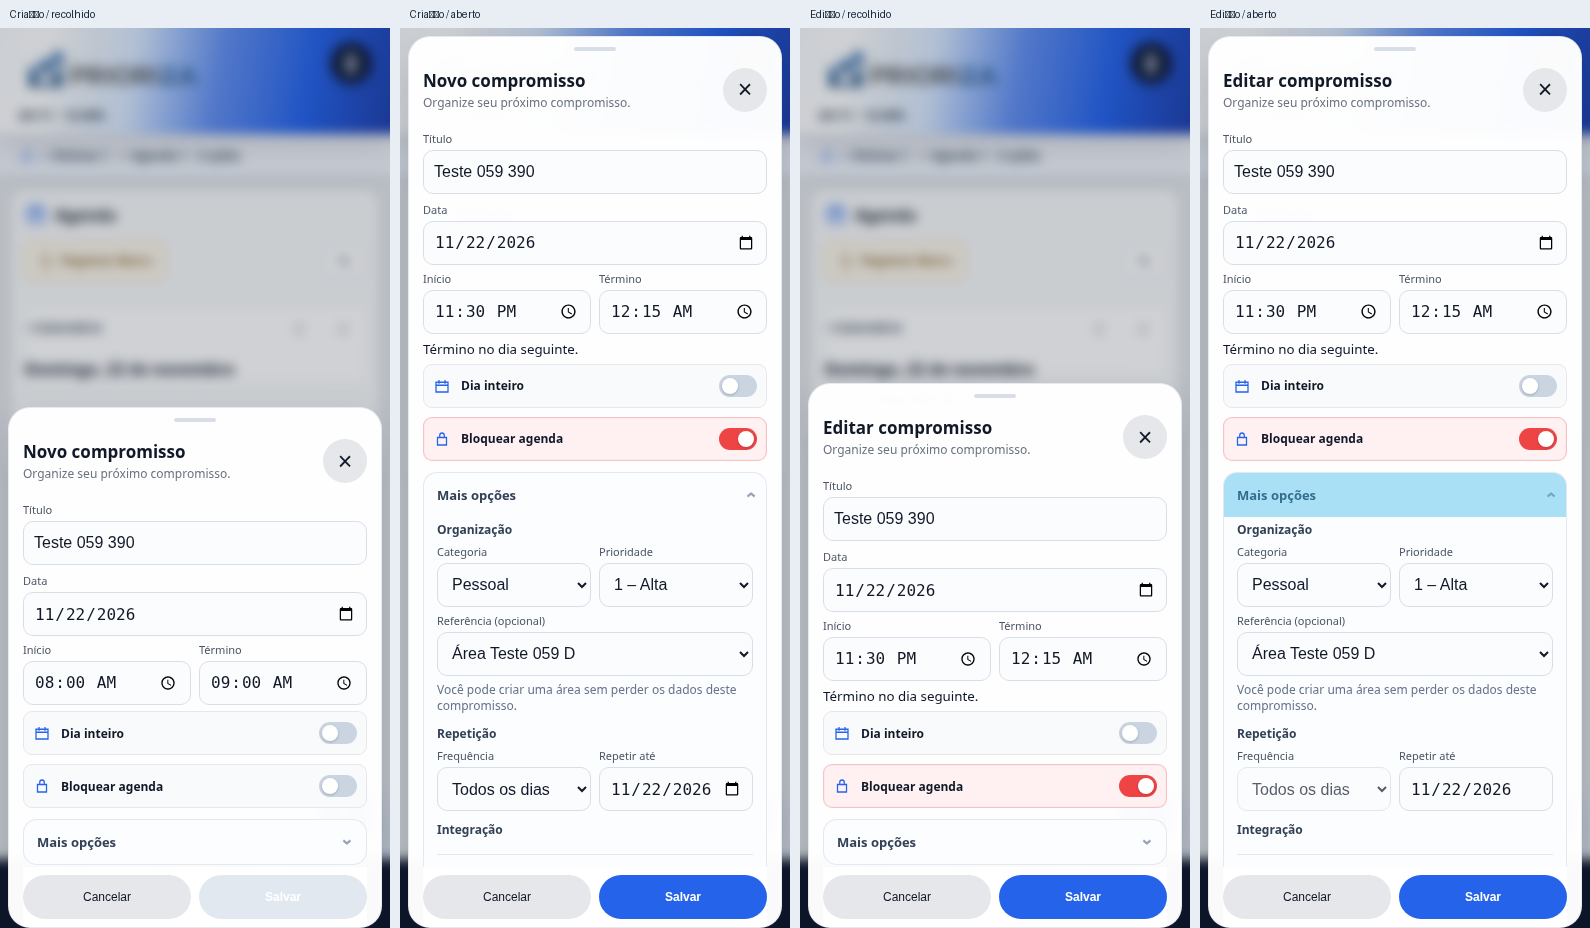
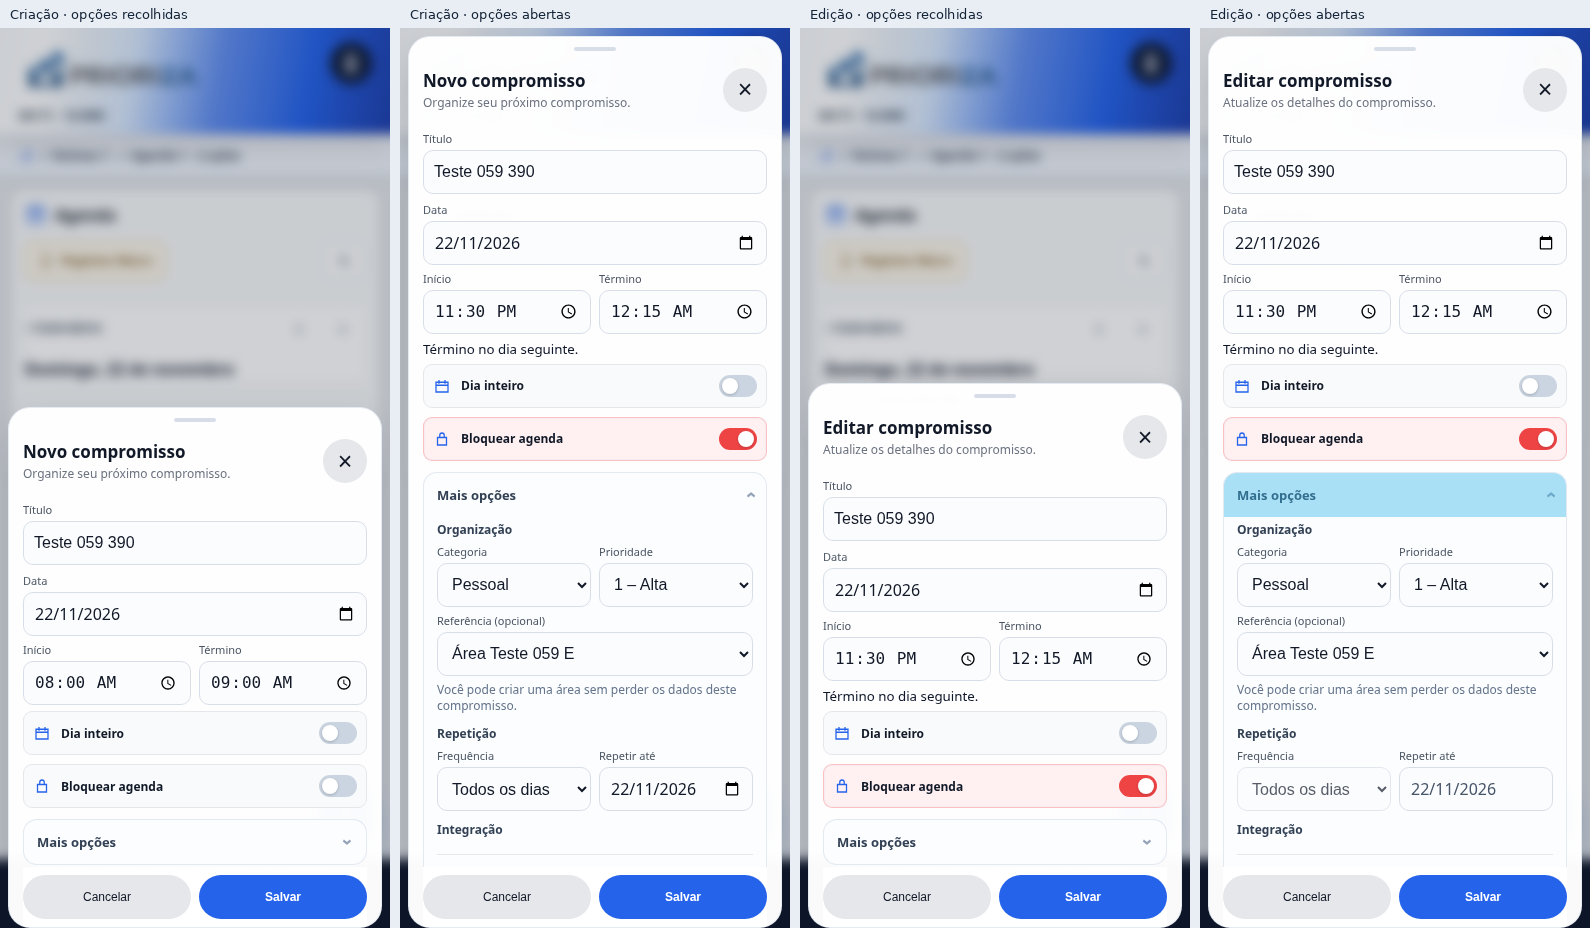
Ajusta formato das datas e subtítulo da edição no mobile

diff --git a/index.html b/index.html
@@ -29,7 +29,7 @@
     <link rel="stylesheet" href="./css/layout.css">
     <link rel="stylesheet" href="./css/components.css">
     <link rel="stylesheet" href="./css/screens.css">
-    <link rel="stylesheet" href="./css/responsive.css?v=sprint-059">
+    <link rel="stylesheet" href="./css/responsive.css?v=sprint-059-final">
   </head>
   <body>
 
@@ -449,7 +449,7 @@
                   <div>
                     <div id="agenda-form-title" class="checklist-form-title">Novo compromisso</div>
                     <div class="checklist-form-subtitle agenda-form-desktop">Só o essencial primeiro.</div>
-                    <div class="checklist-form-subtitle agenda-form-mobile">Organize seu próximo compromisso.</div>
+                    <div id="agenda-form-subtitle-mobile" class="checklist-form-subtitle agenda-form-mobile">Organize seu próximo compromisso.</div>
                   </div>
                   <button id="btn-fechar-form-agenda" class="btn-secondary" type="button"><span class="agenda-form-desktop">Fechar</span><span class="agenda-form-mobile"><span aria-hidden="true">×</span><span class="sr-only">Fechar</span></span></button>
                 </div>
@@ -463,7 +463,7 @@
                         <input id="agenda-titulo" type="text" placeholder="Ex: Reunião equipe, Fórum gestão..." required />
                       </div>
                       <div class="form-grid agenda-form-datetime" style="margin-top:8px">
-                        <div><label for="agenda-data">Data</label><input id="agenda-data" type="date" /></div>
+                        <div><label for="agenda-data">Data</label><div class="agenda-data-nativa"><input id="agenda-data" type="date" /><span class="agenda-form-mobile agenda-data-formatada" aria-hidden="true"></span></div></div>
                         <div class="agenda-form-horario"><label for="agenda-hora"><span class="agenda-form-desktop">Hora início</span><span class="agenda-form-mobile">Início</span></label><input id="agenda-hora" type="time" value="08:00" /></div>
                         <div class="agenda-form-mobile agenda-form-horario"><label for="agenda-hora-fim">Término</label><input id="agenda-hora-fim" type="time" value="09:00" /></div>
                         <small id="agenda-form-virada" class="agenda-form-mobile agenda-form-virada" hidden>Término no dia seguinte.</small>
@@ -536,7 +536,7 @@
                         </div>
                         <div id="agenda-locais-sugeridos" class="tag-row"></div>
                         <div class="form-grid" style="margin-bottom:0">
-                          <div class="agenda-repetir-ate"><label for="agenda-repetir-ate">Repetir até</label><input id="agenda-repetir-ate" type="date" disabled /></div>
+                          <div class="agenda-repetir-ate"><label for="agenda-repetir-ate">Repetir até</label><div class="agenda-data-nativa"><input id="agenda-repetir-ate" type="date" disabled /><span class="agenda-form-mobile agenda-data-formatada" aria-hidden="true"></span></div></div>
                           <div class="agenda-google-opcao">
                             <label class="agenda-google-check" for="agenda-sincronizar-google">
                               <input id="agenda-sincronizar-google" type="checkbox" />
@@ -1460,7 +1460,7 @@
     <script data-prioriza-module="core" src="./js/core/admin.js?v=sprint-058"></script>
     <script data-prioriza-module="areas" src="./js/core/areas.js?v=sprint-059"></script>
     <script data-prioriza-module="agenda" src="./js/screens/agenda.js?v=sprint-059"></script>
-    <script data-prioriza-module="checklist" src="./js/screens/checklist.js?v=sprint-059"></script>
+    <script data-prioriza-module="checklist" src="./js/screens/checklist.js?v=sprint-059-final"></script>
     <script data-prioriza-module="core" src="./js/screens/workspace.js?v=sprint-059"></script>
     <script data-prioriza-module="autenticacao" src="./js/core/auth.js"></script>
     <script data-prioriza-module="experiencia" src="./js/core/experience.js"></script>

diff --git a/js/screens/checklist.js b/js/screens/checklist.js
@@ -519,6 +519,10 @@
     function atualizarFormularioAgendaMobile() {
       if (!mediaAgendaMobile.matches) return;
       const form = document.getElementById("form-agenda");
+      for (const campo of form.querySelectorAll(".agenda-data-nativa")) {
+        const [ano, mes, dia] = campo.querySelector("input").value.split("-");
+        campo.querySelector(".agenda-data-formatada").textContent = dia ? `${dia}/${mes}/${ano}` : "dd/mm/aaaa";
+      }
       const intervalo = lerIntervaloAgendaMobile();
       const fim = document.getElementById("agenda-hora-fim");
       fim.disabled = intervalo.diaInteiro;
@@ -549,6 +553,9 @@
       form.reset();
       form.querySelector(".form-more-options").open = false;
       document.getElementById("agenda-form-title").textContent = tarefa ? "Editar compromisso" : "Novo compromisso";
+      document.getElementById("agenda-form-subtitle-mobile").textContent = tarefa
+        ? "Atualize os detalhes do compromisso."
+        : "Organize seu próximo compromisso.";
       const val = (id, valor) => { document.getElementById(id).value = valor; };
       const check = (id, valor) => { document.getElementById(id).checked = Boolean(valor); };
       const originalInicio = tarefa?.hora_inicio || (tarefa?.all_day || !tarefa ? "08:00" : "");

diff --git a/css/responsive.css b/css/responsive.css
@@ -911,6 +911,20 @@
     font-size: 16px;
   }
 
+  #form-agenda .agenda-data-nativa { position: relative; }
+  #form-agenda .agenda-data-nativa input { color: transparent; }
+  #form-agenda .agenda-data-nativa input::-webkit-datetime-edit { -webkit-text-fill-color: transparent; }
+  #form-agenda .agenda-data-nativa .agenda-data-formatada {
+    position: absolute;
+    inset: 0 44px 0 12px;
+    display: flex;
+    align-items: center;
+    color: #111827;
+    font-size: 16px;
+    pointer-events: none;
+  }
+  #form-agenda .agenda-data-nativa input:disabled + .agenda-data-formatada { color: #475569; }
+
   #form-agenda .agenda-form-datetime {
     display: grid;
     grid-template-columns: repeat(2, minmax(0, 1fr));

diff --git a/sw.js b/sw.js
@@ -9,12 +9,12 @@ const PUBLIC_ASSETS = [
   "/css/layout.css",
   "/css/components.css",
   "/css/screens.css",
-  "/css/responsive.css?v=sprint-059",
+  "/css/responsive.css?v=sprint-059-final",
   "/js/core/debug.js",
   "/js/core/utils.js",
   "/js/core/admin.js?v=sprint-058",
   "/js/core/areas.js?v=sprint-059",
-  "/js/screens/checklist.js?v=sprint-059",
+  "/js/screens/checklist.js?v=sprint-059-final",
   "/js/screens/agenda.js?v=sprint-059",
   "/js/screens/workspace.js?v=sprint-059",
   "/js/app.js?v=sprint-059"

diff --git a/SPRINT-059-RELATORIO.md b/SPRINT-059-RELATORIO.md
@@ -10,7 +10,8 @@ O cadastro da Agenda compartilhava o formulário de hora inicial e duração ent
 - A duração é calculada a partir dos horários. O formulário identifica quando o término cai no dia seguinte. Ao desligar Dia inteiro, os horários informados reaparecem.
 - Mais opções começa recolhido e agrupa Organização, Repetição e Integração. Repetir até aparece conforme a frequência. A criação de área mantém os campos preenchidos.
 - A edição preserva a escolha de escopo da recorrência, os campos avançados e os valores que o usuário deixou intactos. Os fluxos de conflito e prevenção de duplicidade da Sprint 058 continuam usando o backend existente.
-- Arquivos estáticos atualizados com o identificador `sprint-059` e o service worker com o cache `prioriza-public-v68`.
+- Após a aprovação visual, a data e o campo Repetir até passaram a exibir dia/mês/ano no mobile, com o seletor nativo e o valor ISO preservados. O subtítulo da edição passou a ser “Atualize os detalhes do compromisso.”
+- O CSS e o script ajustados usam o identificador `sprint-059-final`. O service worker mantém o cache `prioriza-public-v68`.
 
 ## Validação
 
@@ -18,10 +19,11 @@ O cadastro da Agenda compartilhava o formulário de hora inicial e duração ent
 | --- | --- | --- |
 | Cadastro, edição, Mais opções, horários e virada da meia-noite, área, bloqueio parcial e cancelamento | Chromium em 320, 360, 390 e 430 px, com API local e SQLite temporário | Aprovado |
 | Bloqueio “Feriado”, tentativa de cadastro, cancelamento sem gravar e confirmação com um único registro | Chromium nas quatro larguras mobile e SQLite temporário | Aprovado |
+| Data em DD/MM/AAAA na criação, edição e repetição, valor nativo ISO e subtítulos | Chromium em 320, 360, 390 e 430 px | Aprovado |
 | Suíte API Sprint 058: limites, edição, isolamento entre contas, séries e idempotência concorrente | FastAPI e SQLite temporário | Aprovado |
 | Bloqueio de dia inteiro e manutenção do rodapé com a viewport reduzida | Chromium em 390 px | Aprovado |
 | Envio da opção de sincronização com Google Agenda | Estado de conexão simulado com captura do payload local | Aprovado para o envio da opção |
-| Formulário desktop de cadastro, mesmas informações e mesmo estado | Chromium em 1024, 1280 e 1440 px, base `b4908f7` contra a Sprint 059 | Capturas idênticas pixel a pixel |
+| Formulário desktop de cadastro, mesmas informações e mesmo estado | Chromium em 1024, 1280 e 1440 px, base `b4908f7` contra a Sprint 059 | Capturas idênticas pixel a pixel, inclusive após os ajustes finais |
 | Sintaxe do JavaScript alterado, espaços inválidos no diff e ativação do service worker | Node.js, Git e Chromium | Aprovado |
 
 ## Limitações
